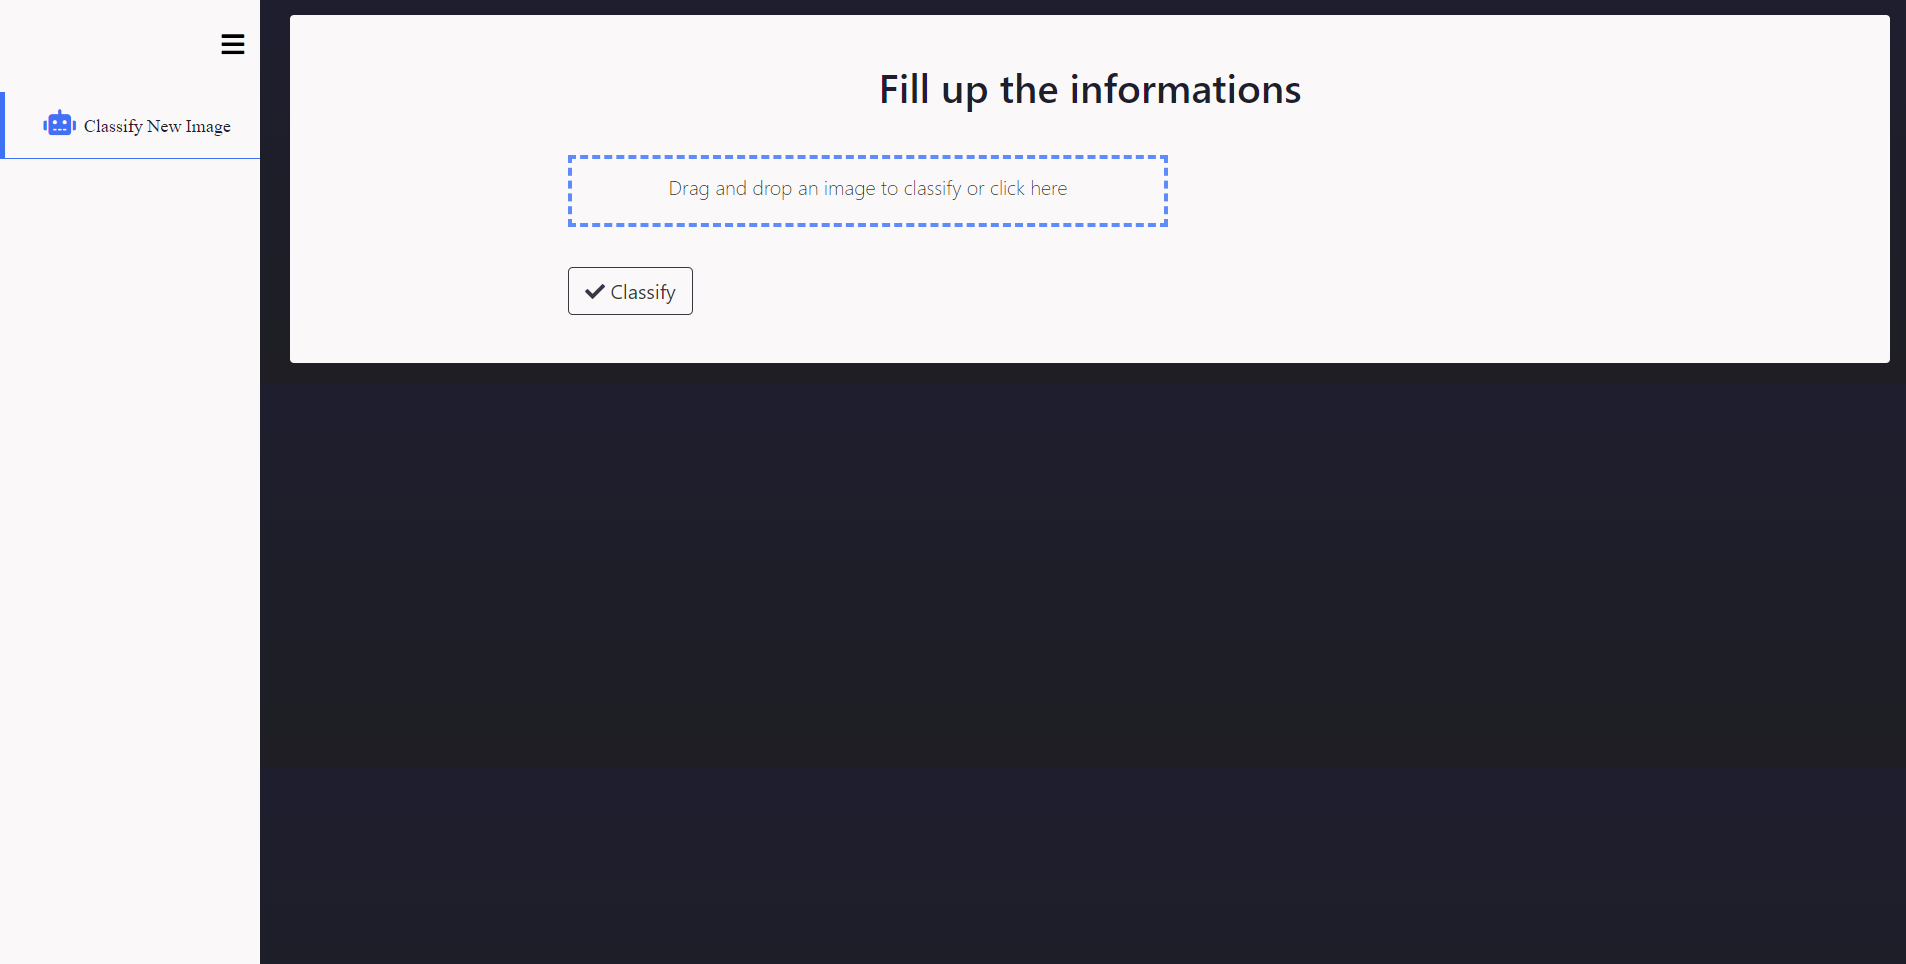
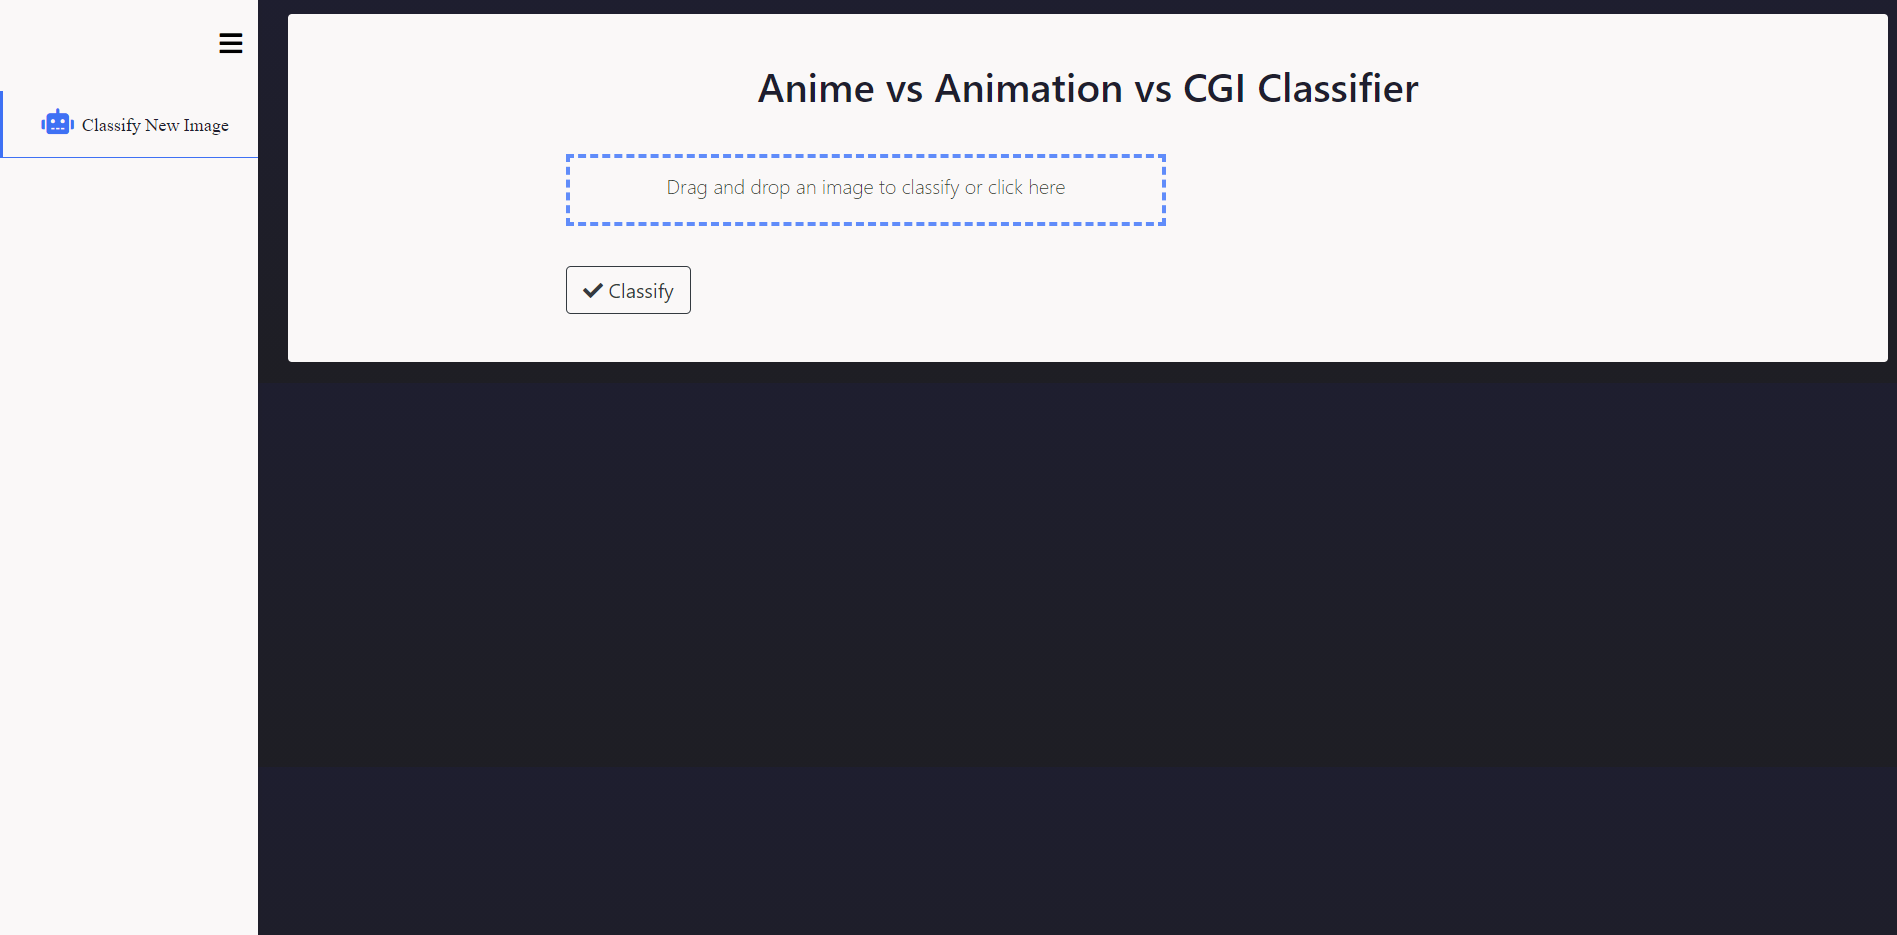
visualization

diff --git a/templates/index.html b/templates/index.html
@@ -6,7 +6,7 @@
 
 {% block body %}
 <div class="container p-2 p-md-5">
-  <h1 style="text-align: center"> Fill up the informations </h1>
+  <h1 style="text-align: center"> Anime vs Animation vs CGI Classifier </h1>
   <form action="/" method="POST" class="uploader" enctype="multipart/form-data">
     <div class="pt-3 form-group file-upload">
       <div class="image-upload-wrap">
